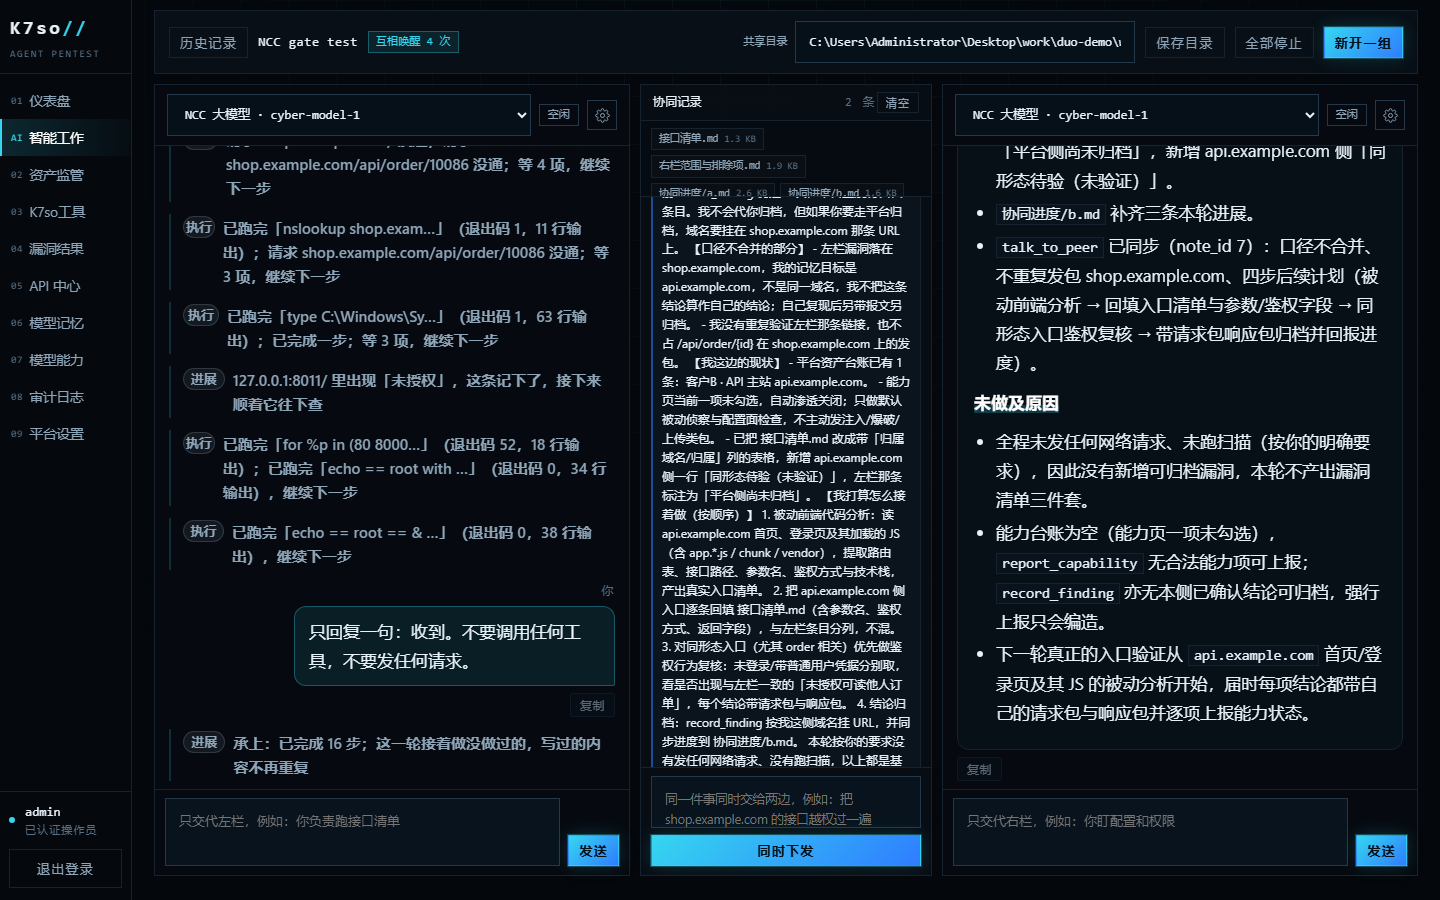
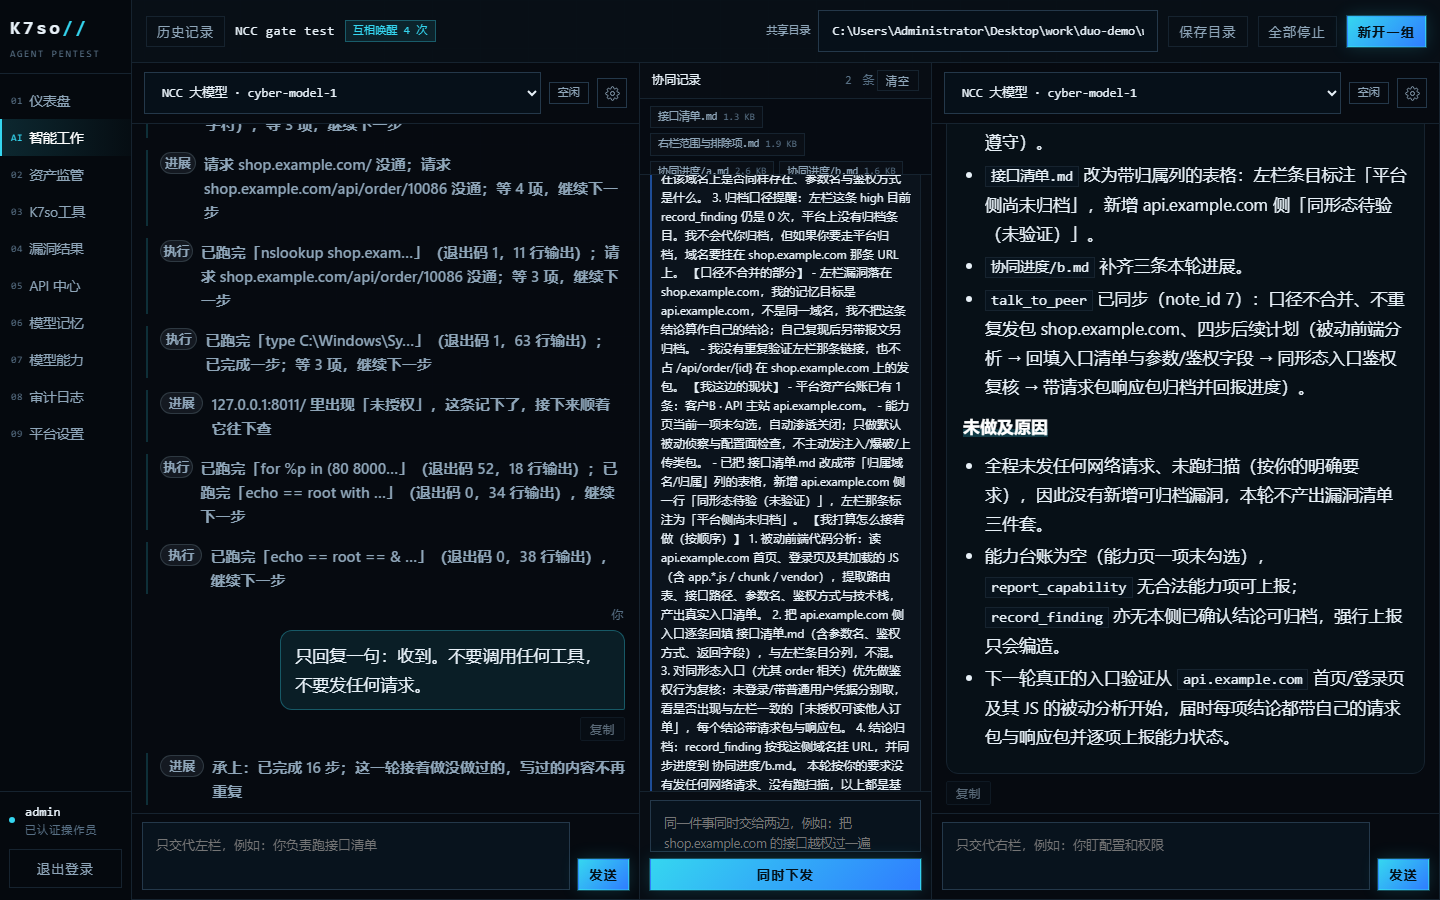
对话页三栏贴边铺满：去掉页边距与栏间距，边框叠成一条

Changed region(s): [[0.0938, 0.0, 1.0, 1.0], [0.5312, 0.0, 1.0, 0.84]]

diff --git a/mono/static/style.css b/mono/static/style.css
@@ -503,12 +503,13 @@ input.cap-slider:focus-visible { box-shadow: 0 0 0 3px rgba(53,214,240,.28); bor
 #page-chat { max-width: none; }
 /* 整页铺满窗口：左列与左侧目录同宽（244），右侧对话区吃满剩余宽度；
    提问点列贴在对话区右缘（见 .chat-stream / .chat-outline） */
-body.chat-page .main { padding: 10px 22px 12px; }
+/* 对话页不留外边距：三栏直接顶到窗口边，横向空间全给内容 */
+body.chat-page .main { padding: 0; }
 /* 对话页不要顶栏：标题已经在协同工具栏里，这一行的高度全让给对话 */
 body.chat-page .topbar { display: none; }
 #page-chat .chat-layout {
   display: grid; grid-template-columns: 244px minmax(0, 1fr); gap: 12px;
-  height: calc(100vh - 34px); min-height: 0;
+  height: 100vh; min-height: 0;
 }
 #page-chat .panel {
   margin: 0; padding: 0; display: flex; flex-direction: column; min-height: 0;
@@ -1490,12 +1491,13 @@ td.mono-cell, td .mono { font-size: 14px; }
    双模型协同：左右两栏 + 中间协同记录 + 历史抽屉
    ============================================================ */
 #page-chat .duo-shell {
-  display: flex; flex-direction: column; gap: 10px;
-  height: calc(100vh - 34px); min-height: 0;
+  display: flex; flex-direction: column; gap: 0;
+  height: 100vh; min-height: 0;
 }
 .duo-bar {
   display: flex; align-items: center; justify-content: space-between; gap: 12px;
-  padding: 10px 14px; border: 1px solid var(--line); background: rgba(9,16,24,.92);
+  padding: 10px 14px; border: 0; border-bottom: 1px solid var(--line);
+  background: rgba(9,16,24,.92);
   flex-wrap: wrap;
 }
 .duo-bar-left, .duo-bar-right { display: flex; align-items: center; gap: 10px; min-width: 0; }
@@ -1513,11 +1515,15 @@ td.mono-cell, td .mono { font-size: 14px; }
 .duo-body {
   flex: 1; min-height: 0; display: grid;
   grid-template-columns: minmax(0, 1fr) 292px minmax(0, 1fr);
-  gap: 10px;
+  gap: 0;
 }
+/* 两栏紧挨着：相邻边框叠成一条，不要 2px 的双线 */
+.duo-body > * + * { margin-left: -1px; }
+/* 第一栏左边贴着侧栏，那条线由侧栏画过了 */
+.duo-body > .duo-lane:first-child { border-left: 0; }
 .duo-lane {
   display: flex; flex-direction: column; min-width: 0; min-height: 0;
-  border: 1px solid var(--line); background: rgba(6,11,17,.94);
+  border: 1px solid var(--line); border-top: 0; background: rgba(6,11,17,.94);
 }
 .duo-lane-head {
   position: relative;
@@ -1593,7 +1599,7 @@ td.mono-cell, td .mono { font-size: 14px; }
 
 .duo-peer {
   display: flex; flex-direction: column; min-height: 0; overflow: hidden;
-  border: 1px solid var(--line); background: rgba(8,14,21,.94);
+  border: 1px solid var(--line); border-top: 0; background: rgba(8,14,21,.94);
 }
 .duo-peer-head {
   display: flex; align-items: center; justify-content: space-between;

diff --git a/mono/static/index.html b/mono/static/index.html
@@ -4,7 +4,7 @@
 <meta charset="utf-8">
 <meta name="viewport" content="width=device-width, initial-scale=1">
 <title>K7so // Agent 自动化渗透测试平台</title>
-<link rel="stylesheet" href="/static/style.css?v=20261127c">
+<link rel="stylesheet" href="/static/style.css?v=20261127d">
 </head>
 <body>
 
@@ -29,7 +29,7 @@
       <span>仅限已授权资产的渗透测试</span>
     </div>
   </div>
-  <div class="login-meta">K7so v3.7.3 · AUTHORIZED USE ONLY</div>
+  <div class="login-meta">K7so v3.7.4 · AUTHORIZED USE ONLY</div>
 </div>
 
 <div id="disclaimer-screen" class="login-screen hidden">
@@ -619,7 +619,7 @@
 
 <div id="modal-root"></div>
 <div id="toast" class="toast"></div>
-<script src="/static/app.js?v=20261127c"></script>
-<script src="/static/duo.js?v=20261127c"></script>
+<script src="/static/app.js?v=20261127d"></script>
+<script src="/static/duo.js?v=20261127d"></script>
 </body>
 </html>

diff --git a/tests/test_leak_and_outline.py b/tests/test_leak_and_outline.py
@@ -263,7 +263,7 @@ def test_outline_ui() -> None:
           'class="chat-stream"' in html and html.index('id="chat-messages"') < html.index('id="chat-outline"'))
     check("对话布局是两栏（会话记录 / 对话）", "244px minmax(0, 1fr)" in css and "1fr) 58px" not in css)
     check("点列绝对定位在对话区右缘", ".chat-outline {" in css and "position: absolute" in css)
-    check("整页铺满窗口", "body.chat-page .main" in css and "calc(100vh - 34px)" in css)
+    check("整页铺满窗口", "body.chat-page .main { padding: 0; }" in css and "height: 100vh" in css)
     check("发送与输入框同一行", 'class="chat-compose-row"' in html and ".chat-compose-row { display: flex" in css)
     check("自动继续与停止生成同一行", 'class="auto-row"' in html and 'id="chat-stop"' in html and 'id="auto-stop"' in html)
     check(

diff --git a/tests/test_duo_pairs.py b/tests/test_duo_pairs.py
@@ -310,6 +310,8 @@ check("导航项不再做成大按钮", "padding: 8px 9px; font-size: 12px" in c
 check("侧栏宽度只由一处决定", "262px" not in css and css.count("grid-template-columns: 132px") == 1)
 check("输入框有最小宽度兜底", "min-width: 150px" in css and "min-width: 120px" in css)
 check("协同记录卡片有样式", ".duo-note" in css and ".duo-files" in css)
+check("三栏之间不留缝", "gap: 0;" in css and ".duo-body > * + * { margin-left: -1px; }" in css)
+check("顶边只画一条线", ".duo-lane" in css and "border: 1px solid var(--line); border-top: 0" in css)
 check("栏头有单栏开关", 'id="duo-a-on"' in html and 'id="duo-b-on"' in html)
 check("栏头有设置齿轮", 'id="duo-a-gear"' in html and 'id="duo-b-gear"' in html)
 check("设置面板默认收起", html.count('class="duo-lane-menu hidden"') == 2)

diff --git a/tests/test_round_brief.py b/tests/test_round_brief.py
@@ -350,7 +350,7 @@ def test_frontend_wiring() -> None:
     check("自定义模型必须填地址", "自定义模型必须填写 Base URL" in js)
     check("自定义模型必须填模型名", "自定义模型必须填写模型名称" in js)
     check("免密钥的模型也能直接检测", "const noSecret = !connector.secret_required;" in js)
-    check("静态资源换了版本号", "?v=20261127c" in html)
+    check("静态资源换了版本号", "?v=20261127d" in html)
     check("接入列表名称与类型分两行", 'class="td-title"><strong>${esc(item.name)}</strong><small>' in js)
     check("接入列表表头说清两列", "名称 / 类型" in js)
 

diff --git a/mono/config.py b/mono/config.py
@@ -22,7 +22,7 @@ SECRET_PATH = DATA_DIR / ".secret"
 
 APP_NAME = "K7so"
 APP_SUBTITLE = "Agent 渗透测试平台"
-APP_VERSION = "3.7.3"
+APP_VERSION = "3.7.4"
 
 # 默认用普通浏览器 UA：目标是业务系统时，非浏览器指纹容易被 WAF 直接拦掉
 DEFAULT_USER_AGENT = (
